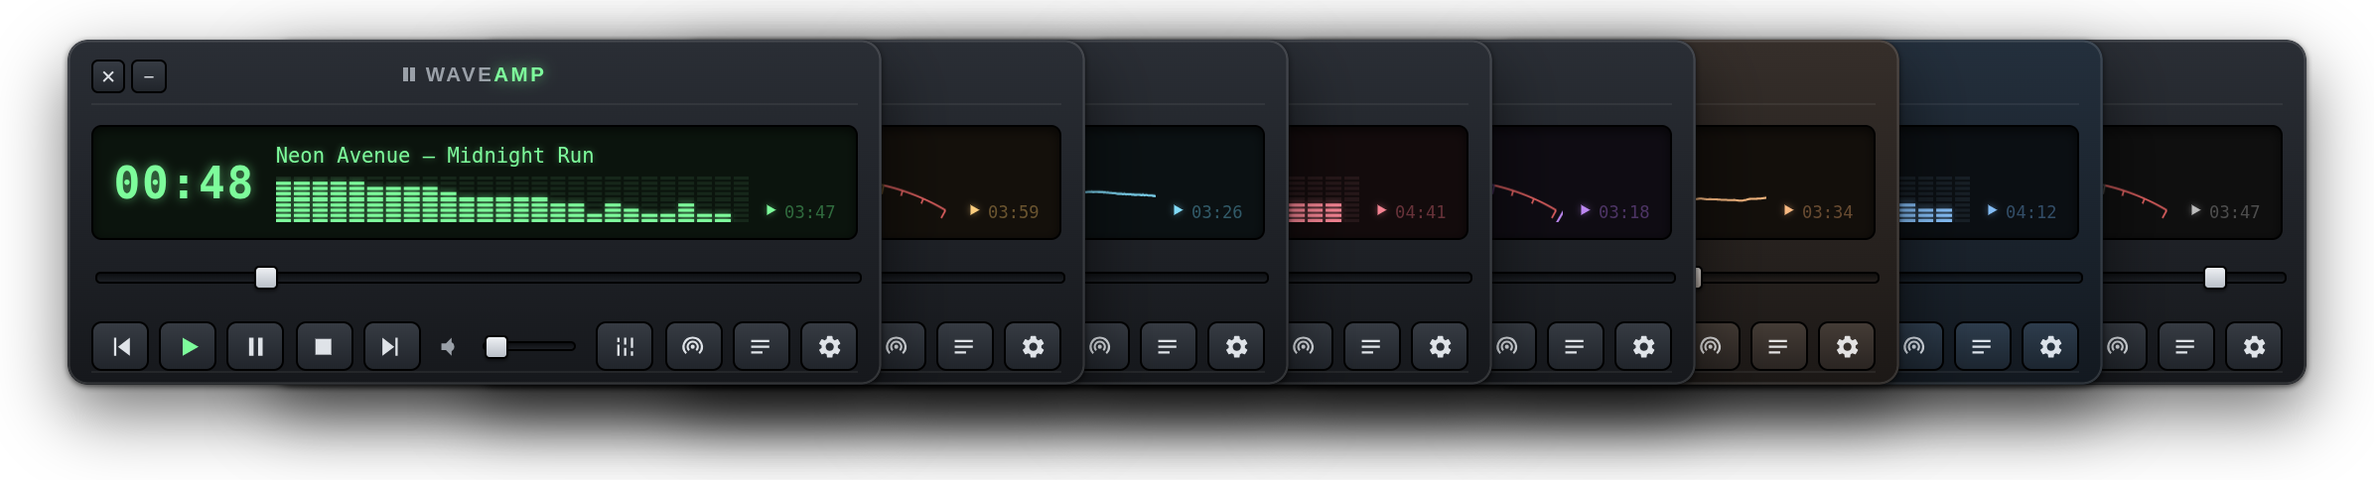
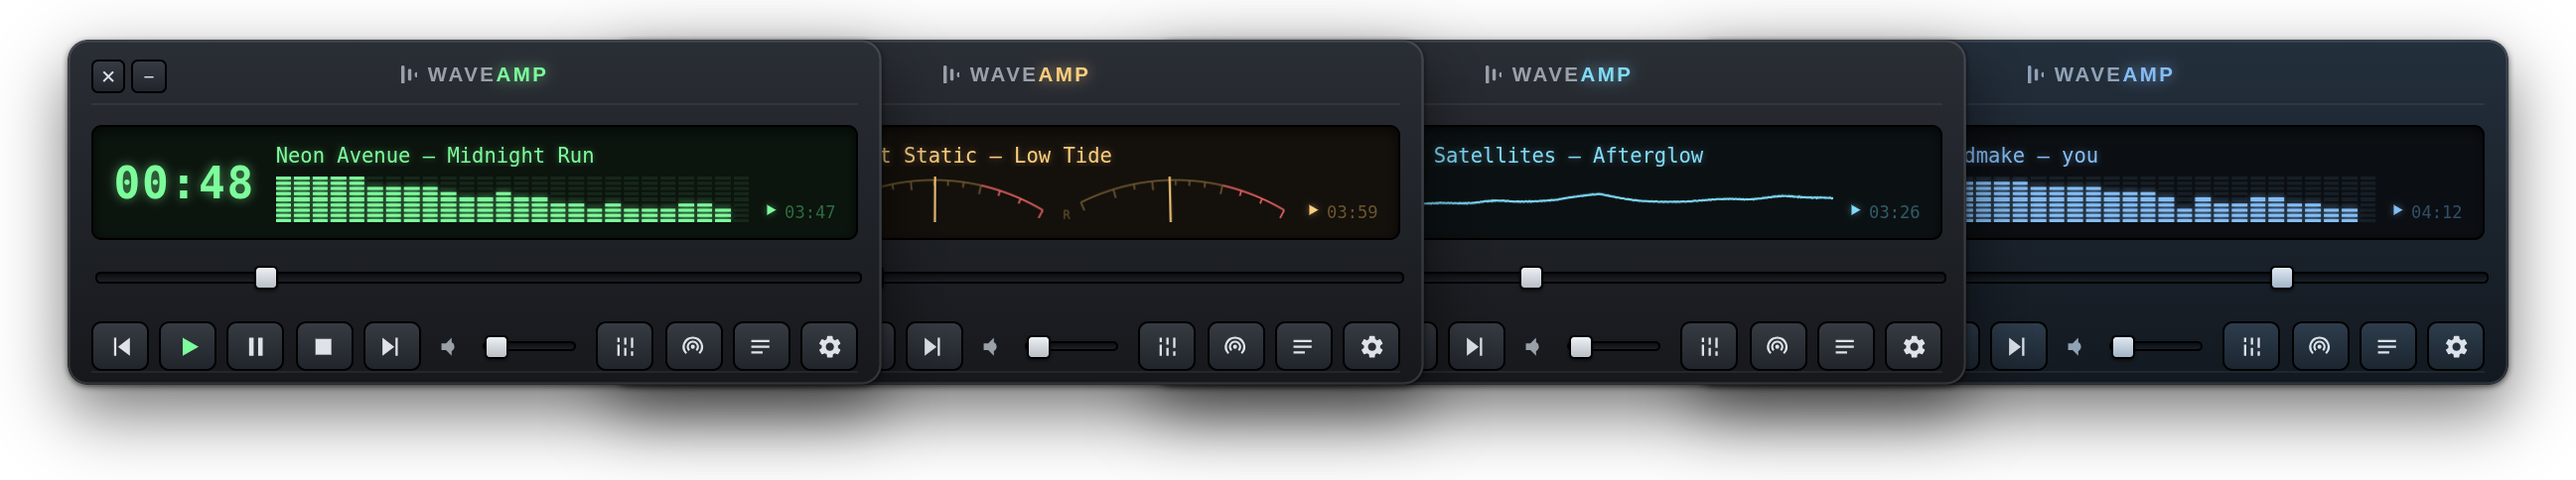
Lower the spectrum and VU meter sensitivity (#41)

diff --git a/src/renderer/player/visualizer.ts b/src/renderer/player/visualizer.ts
@@ -20,6 +20,8 @@ function availableVizModes(): VizMode[] {
 const NEEDLE_PEAK_FALL_TAU_MS = 650;
 const SPECTRUM_PEAK_FALL_TAU_MS = 300;
 const VU_REFERENCE_DBFS = -12;
+const VIZ_SENSITIVITY = 0.85;
+const VIZ_SENSITIVITY_DB = 20 * Math.log10(VIZ_SENSITIVITY);
 const VU_SCALE_MARKS = [-20, -10, -7, -5, -3, -2, -1, 0, 1, 2, 3];
 const VU_MAJOR_MARKS = [-20, -10, -5, 0, 3];
 
@@ -55,12 +57,12 @@ function meterTarget(analyser: AnalyserNode): number {
   if (state.vizResponse === "peak") {
     let peak = 0;
     for (const sample of meterSamples) peak = Math.max(peak, Math.abs(sample));
-    return needlePosition(20 * Math.log10(peak) + 3);
+    return needlePosition(20 * Math.log10(peak) + 3 + VIZ_SENSITIVITY_DB);
   }
   let sumSquares = 0;
   for (const sample of meterSamples) sumSquares += sample * sample;
   const rms = Math.sqrt(sumSquares / meterSamples.length);
-  return needlePosition(20 * Math.log10(rms) - VU_REFERENCE_DBFS);
+  return needlePosition(20 * Math.log10(rms) - VU_REFERENCE_DBFS + VIZ_SENSITIVITY_DB);
 }
 
 // Custom properties may hold calc()/color-mix() a canvas can't parse — resolve to rgb().
@@ -216,7 +218,7 @@ function renderSpectrum(dt: number, now: number): void {
   for (let c = 0; c < VIZ_COLUMNS; c++) {
     spectrumLevels[c] = followLevel(
       spectrumLevels[c],
-      vizFreqData[vizBinMap[c]] / 255,
+      (vizFreqData[vizBinMap[c]] / 255) * VIZ_SENSITIVITY,
       dt,
       SPECTRUM_PEAK_FALL_TAU_MS,
       state.vizResponse

diff --git a/CHANGELOG.md b/CHANGELOG.md
@@ -4,6 +4,12 @@ All notable changes to WaveAMP are documented here. The project follows
 [Semantic Versioning](https://semver.org/): new features bump the minor
 version, fixes bump the patch version.
 
+## [1.13.1] — 2026-10-04
+
+### Changed
+- The spectrum and the VU meters are less sensitive and no longer pin on loud
+  tracks
+
 ## [1.13.0] — 2026-10-03
 
 ### Added

diff --git a/README.md b/README.md
@@ -7,7 +7,7 @@ classic Winamp: dark chrome, a glowing LCD and a real 10-band equalizer.
 Runs on macOS, Windows and Linux.
 
 <p align="center">
-  <img src="docs/header.png" alt="WaveAMP in its eight built-in color schemes" width="100%" />
+  <img src="docs/header.png" alt="WaveAMP in four of its color schemes" width="100%" />
 </p>
 
 <p align="center">

diff --git a/README.ru.md b/README.ru.md
@@ -7,7 +7,7 @@
 на macOS, Windows и Linux.
 
 <p align="center">
-  <img src="docs/header.png" alt="WaveAMP во всех восьми встроенных цветовых схемах" width="100%" />
+  <img src="docs/header.png" alt="WaveAMP в четырёх цветовых схемах" width="100%" />
 </p>
 
 <p align="center">
